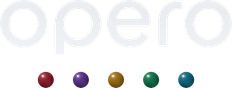
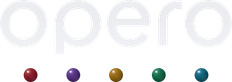
The final Opero lockup: jewels spread wider and set closer under the wordmark
The owner's final centered lockup replaces the previous one everywhere the
site draws the Opero mark. The supplied files move from the repo root into
public/brand/opero/centered, untouched; the SVGs in this delivery are again
empty wrappers (two image tags pointing at no file), so the PNGs stay the
source. The export script cuts to the new visible bounds (the jewels now sit
at 1017, 1683, 2767 x 207 on the 4800 x 2638 canvas) and rewrites the web
copies (1200 x 424) and the email copies (116 x 41); the manifest carries the
new sizes. The share image trims the PNG itself, so it follows.

Claude-Session: https://claude.ai/code/session_01KhePUvyDoGx9BAF1YUfzN2

diff --git a/PLACEHOLDERS.md b/PLACEHOLDERS.md
@@ -19,7 +19,7 @@ Review each in Admin, Content. Publishing a section clears its flag.
 - **Founder page:** the eyebrow ("Founder") and the search description, which repeats the Investor Hub's. The headline, photo, name, role, LinkedIn, and story are the Investor Hub's own sections, listed below.
 - **Investor Hub:** the first five sections, drafted from the owner's note (twenty-five years in property management, the problem, then the solution) and the investor room in the Opero repo, leaving out the offering, its terms, and its figures. The "today and on deck" areas come from the investor room's capability table, lightly edited (Oppie by name, abbreviations spelled out). Its Accounting group appears as "Budgeting and reporting" with only what runs today through API connections; the accounting items still to be built stay out, since the site says nothing about accounting. It is signed "Joe Mifsud, Founder" beside the portrait from the investor room (`src/assets/founder-portrait.jpg`; replace that file to change the photo). Before inviting the first guest: have counsel review the page and the note under its form, and on an existing site add the Investor Hub form to the first section of the privacy notice (new sites already say it).
 - **Investor Hub, the round:** the section that presents the round's terms, the investment model, and the capitalization table (Content, Investor Hub, The round; shown to guests and admins only, never on a public page). Its figures come from the signed documents and from the owner: the share counts (7,000,000 founder, 1,500,000 Oxford Companies, 1,500,000 plan reserve) from the Common Stock Purchase Agreements and the Equity Incentive Plan; the $10,000,000 post-money SAFE cap with no discount, the $750,000 raise, the $50,000 minimum, the $25,000 slider step, and the pro-rata line ($250,000 and above, via side letter) from the owner. The "180 days from company formation" line is carried over from the older investor room and should be confirmed by the owner. The wording around the figures (the headings, the "what the investor gets" paragraph, the table's column labels, the illustrative price line, and the note under the table) is drafted. Every percentage on the page is worked out from the stored figures (`src/lib/round.ts`); share counts after the round are illustrative and assume the full round is raised. The holders are labeled by role (Founder, Flagship operator, Employee pool) rather than by name, as the owner chose; the labels are plain text fields.
-- **Opero lockup:** the site draws the owner's lockup with the jewels centered under the wordmark from the supplied PNGs (the SVGs in the same delivery were empty wrappers). A true vector export, when available, would scale sharper at the largest sizes: drop it into `public/brand/opero/centered` and point the `opero` entry of `public/brand/manifest.json` at it. The older left-aligned lockup files stay in `public/brand/opero` for the small flat variants.
+- **Opero lockup:** the site draws the owner's final lockup, with the jewels centered under the wordmark, from the supplied PNGs in `public/brand/opero/centered` (the SVGs in the same delivery are empty wrappers: two image tags pointing at no file). A true vector export, when available, would scale sharper at the largest sizes: drop it into `public/brand/opero/centered` and point the `opero` entry of `public/brand/manifest.json` at it. The older left-aligned lockup files stay in `public/brand/opero` for the small flat variants.
 - **Module screenshots:** the five pictures behind Look inside (`public/modules`, drawn from `scripts/module-shots`) are illustrations of each module made with creative license while the real screens are being remade; replace them with captures of the real product when it is ready. Everything on them is fictional: the company Wrenfield Property Management and its six properties (Horizon, Parkside Commons, Millbrook Plaza, Maple Row, Fenwick Lofts, Juniper Flats), its lessees and residents (Aldergrove Dental, Pinecrest Analytics, Stonebridge Legal, Lakeshore Optometry, Fernhill Architects, Copperline Coffee, Birchwood Therapy, Northgate Insurance, Summit Engineering, Redbud Bakery, Granite Peak Fitness), its vendors (Brightline Painting, Kestrel Carpet, Northwind HVAC), its people (Dana Kowalski, Marcus Bell, Priya Raman, Theo Lindqvist, Luis Moreno, Elena Vasquez, Sam Okafor) and every figure; the first two properties and their lessees are the ones the Oppie console already uses, so the two agree. Search those names once before the site goes public, in case one matches a real business. The captions under the pictures (Content, Home, Platform, each module's Screenshot caption), the Look inside label and the screenshot heading are drafted.
 - **Maintenance page** and **Page not found** wording.
 - **Guests and the private site:** the role labels and what each sees ("Visitor: the site", "Investor: the site and the Investor Hub"), the wording on the Guests page and the Settings card, the note suggested for invitation emails, and the dashboard's private-site notice are drafted. The site starts private (Settings, Front door); existing guests were kept as investors when roles arrived.
